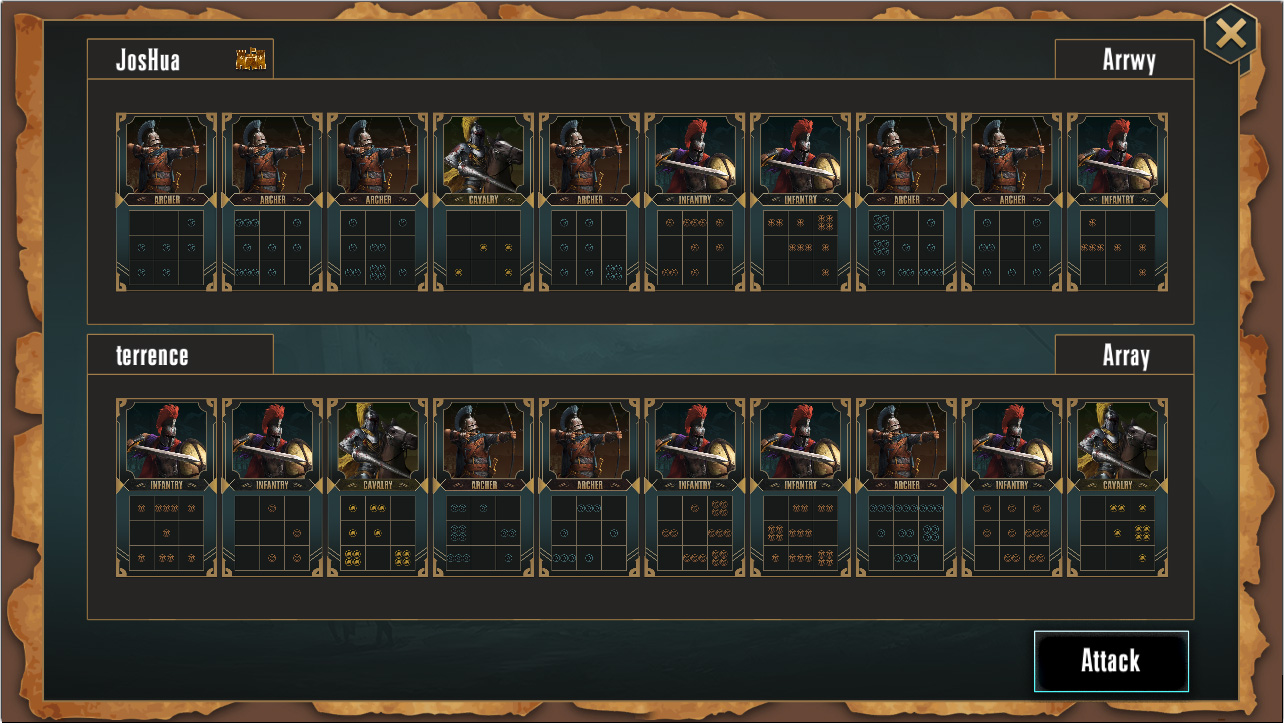
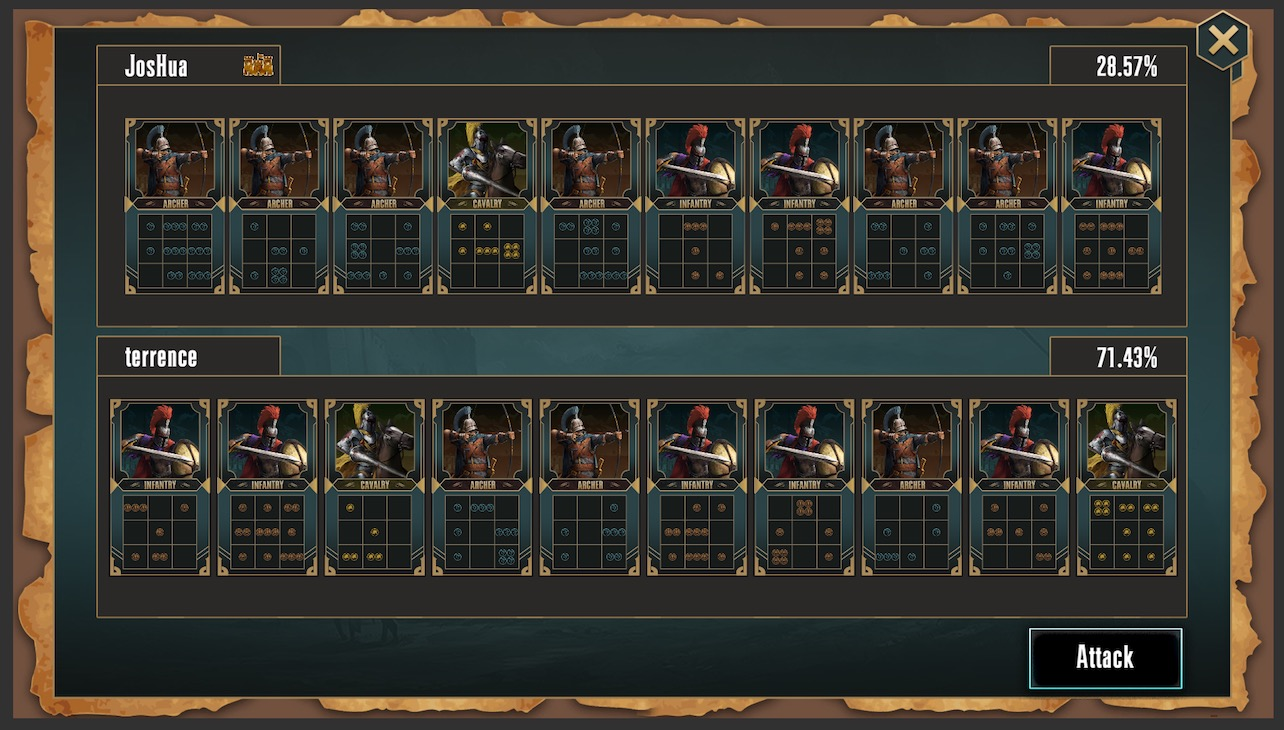
更新玩家体验篇及配图

diff --git a/卡莱战纪-体验.md b/卡莱战纪-体验.md
@@ -43,14 +43,33 @@
 ### 3. 玩家操作
 
 ![battle](pics/Battle.jpg)
+由于链游存在写操作需要较长时间等待确认的特点，忌讳玩家与区块链频繁写操作。《卡莱》中设计了以下四种因素来改善游戏体验。
 
-**战斗**：因为响应速度的限制，逻辑上链游戏忌讳玩家与区块链频繁写操作。所以《卡莱》中玩家在核心体验里， 玩家会通过客户端查询比较各种数据，思考其他玩家信息真伪，也可以反复在本地调整卡牌阵型来模拟战争。真正向区块链写操作只有一件事：用布置好的卡牌阵型加入攻击者或守军向某城进军。
+**战斗准备** 战前充分准备，以求得最达胜率。
+
+1. 调整卡牌阵型来模拟战争。在进攻之前，可以充分调整自己的出战阵型，保证在不考虑外界因素时，达到胜率的最大化。 真正向区块链写操作只有一件事：用布置好的卡牌阵型加入攻击者或守军向某城进军。
+2. 思考其他玩家信息真伪。玩家会通过客户端查询比较各种数据，查看特定玩家之前在攻守同盟时的放鸽子记录，尤其是他声明要帮助你攻城或守城时。
+3. 查看玩家即将攻击城市的上次交点记录，以便猜测现在的城主的人气，和潜在的盟友。
+
+**战争积极性** 玩家某些操作，可以对影响战争积极性，它在战斗中会起到一定的作用，虽然是占比很小的一个因素。可以据此提高玩家的操作性。以下操作可以增加战争积极性。
+
+1. 玩家所占领的城市，随机会出现损坏，如果及时修复。
+2. 全地图随时出现一些战争物资，点击捡拾。
+3. 全地图随时灾难事件，点击救援。
+
+**战事广播** 服务器内，一场战争的开始和结束。所有玩家都能收到通知，以便去助攻或助防，或者查看这次战斗的结果记录。
 
 **升级**：玩家参与战斗获得的战利和占领城市的税收，可以用来升级卡牌来获得更大的单军作战能力。如果运气好卡牌的兵种、布阵和等级达到特定的组合，会化身为历史英雄（如凯撒牌、刘秀牌等，小说部分有叙述）而获得更多特性加成。
 
 游戏世界还会和去中心化小说相互影响，这点将在下一章介绍。
 
 **链外联盟**：“联盟协作”这件事， 即使官方不设计，也必然会带来玩家各种线下讨论。我们组织了[Discord](https://discordapp.com/invite/pKQyyrP)群供玩家自由讨论与结盟。但离线联盟并无法决定玩家链上游戏行为。因为即使离线联盟相互十分信任攻守一致, 也无法防止同服其他陌生玩家搅局。精明的玩家也可以暗自从Discord讨论中分析战局的信息。
+
+**历史知识及小说阅读**：玩游戏之外还有意外的收获
+
+1. 玩家在等待占城或等待战斗期间可以阅读最新章节的小说。
+2. 玩家点击某个城市图标时，有机率看到和这个城市相关的一段历史故事。
+
 
 ## II 去中心化小说
 
@@ -138,34 +157,39 @@ iPhone, 安卓与网页， 想玩就玩。卡莱战纪将配备Unity客户端，
 
 ## 常见疑问
 
-**Q1: 不同服务器玩家, 看到的小说是一样的么?**
+**Q: 不同服务器玩家, 看到的小说是一样的么?**
 
-小说可以由作家玩家在链外论坛随意开博张贴连载，任何人（包括非玩家）都可以读。但是如果希望被投票上链从而获得代币奖励，该玩家只能在自己所在的分服里提交。也就是说同一篇章只可能成为特定某服的资产。 未来最著名的那部小说，其分服也会因此荣耀。
+**答**：小说可以由作家玩家在链外论坛随意开博张贴连载，任何人（包括非玩家）都可以读。但是如果希望被投票上链从而获得代币奖励，该玩家只能在自己所在的分服里提交。也就是说同一篇章只可能成为特定某服的资产。 未来最著名的那部小说，其分服也会因此荣耀。
 
-**Q2: 如果某些服务器玩家对小说不感兴趣，也没人投票怎么办？**
+**Q: 如果某些服务器玩家对小说不感兴趣，也没人投票怎么办？**
 
-吟游诗人可以赚钱也有短期内影响游戏逻辑的能力，所以一般情况下不会空缺。假如某分服没有小说传统，随便贴些烂文只求拉票也没问题。那样玩家投的就纯是人气。退一万步没人发布也没人投票, 那么一旦到时间将会顺着官方版本发布小说篇章。
+**答**：吟游诗人可以赚钱也有短期内影响游戏逻辑的能力，所以一般情况下不会空缺。假如某分服没有小说传统，随便贴些烂文只求拉票也没问题。那样玩家投的就纯是人气。退一万步没人发布也没人投票, 那么一旦到时间将会顺着官方版本发布小说篇章。
 
-**Q3: 哪些数据是服务器隔离的, 我的卡牌可以和其它服玩家进行交易么?**
+**Q: 哪些数据是服务器隔离的, 我的卡牌可以和其它服玩家进行交易么?**
 
-答: 服务隔离的是一些游戏相关数据, 比如城市占领. 资产数据是全网统一的, 不同服玩家可以进行卡牌的交易.
+**答**：服务隔离的是一些游戏相关数据, 比如城市占领. 资产数据是全网统一的, 不同服玩家可以进行卡牌的交易.
 
-**Q4: 初期玩家, 一手烂牌如何生存?**
+**Q: 初期玩家, 一手烂牌如何生存?**
 
-答: 首先,卡牌的克制因素在对战成败中占有很大的权重, 所以尽量去攻打可以克制的玩家所占领的城市. 其次在攻打过程中, 尽量争去好友来做你的盟军. 以多打一, 很容易取胜.
+**答**：首先,卡牌的克制因素在对战成败中占有很大的权重, 所以尽量去攻打可以克制的玩家所占领的城市. 其次在攻打过程中, 尽量争去好友来做你的盟军. 以多打一, 很容易取胜.
 
-**Q5: 正式可玩的版本什么时候上线？**
+**Q: 战争积极性是全由客户端来控制么，如果这样可信度怎么控制？**
 
-答: 游戏还在开发中, 预计2019年第一季度正式上neo主网
+**答**：战争积极度是为了提交玩家在使用官方客户端时的操作体验，所有数据临时在客户端存放。协约选择信任客户端的数据，因为它在战争中所占比例极少，所以不用担心这方面的不同客户端间的不公平性。
 
-**Q6: 不占领城市，想和玩家相互打遭遇战可以么？**
+**Q: 正式可玩的版本什么时候上线？**
 
-答: 暂无此设计安排.
+**答**：游戏还在开发中，预计2019年第一季度正式上neo主网。
 
-**Q7: 以后考不考虑增加国战？让我们为自己的国家扩大疆土？**
+**Q: 不占领城市，想和玩家相互打遭遇战可以么？**
 
-答: 暂无此设计安排.
+**答**：暂无此设计安排。
 
-**Q8: 小说每章都有字数限制么？**
+**Q: 以后考不考虑增加国战？让我们为自己的国家扩大疆土？**
 
-答: 考虑到内容的丰富程序, 和10Gas免费限制. 理想的字数应该在2000~5000字. 
+**答**：暂无此设计安排。
+
+**Q: 小说每章都有字数限制么？**
+
+**答**：考虑到内容的丰富程度，和10Gas免费限制。理想的字数应该在2000~5000字。
+
